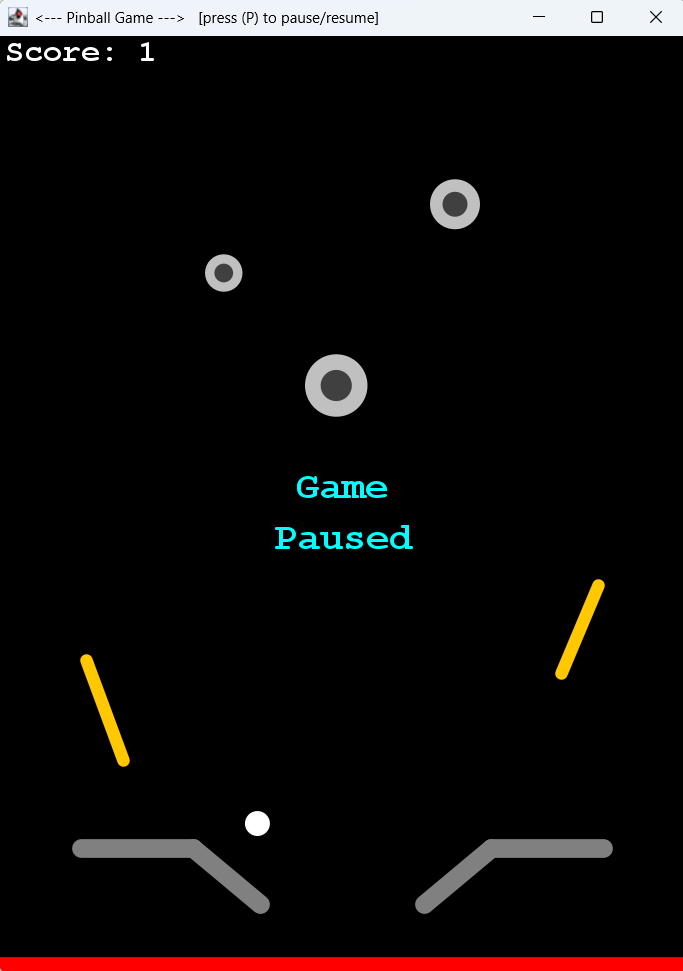
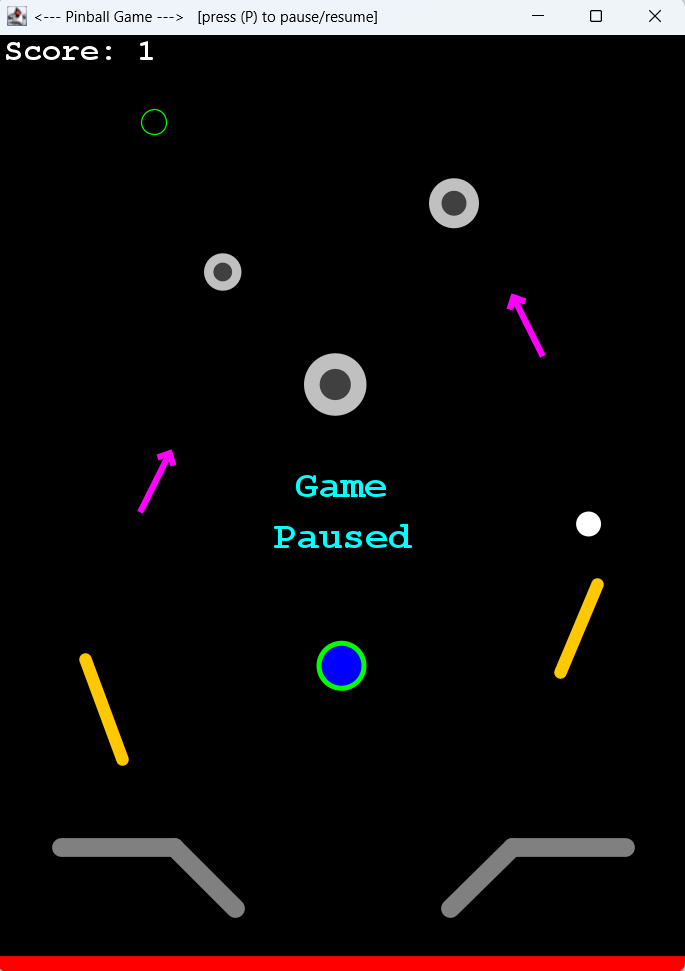
New objects to improve gameplay. Readme file update.

diff --git a/pinball/Arrow.java b/pinball/Arrow.java
@@ -1,0 +1,67 @@
+package pinball;
+
+import java.awt.BasicStroke;
+import java.awt.Color;
+import java.awt.Graphics2D;
+import java.awt.geom.Line2D;
+
+class Arrow {
+	
+	private double spX, spY; // start point coordinates
+	private double epX, epY; // end point coordinates
+	private Vector2D arrow;
+	
+	Arrow(double spX, double spY, double epX, double epY) {
+		
+		this.spX = spX;
+        this.spY = spY;
+        this.epX = epX;
+        this.epY = epY;
+        
+        // Vector from start point to end point. 
+    	this.arrow = new Vector2D(epX - spX, epY - spY);
+        
+	}
+	
+	void checkOverlap(Ball ball) {
+		
+    	// Vector from start point to ball center. 
+    	Vector2D sbVector = new Vector2D(ball.x - spX, ball.y - spY);
+    	
+    	// Factor from the projection of the ball center onto the arrow line. 
+    	double pf = sbVector.dot(arrow) / arrow.dot(arrow);
+    	
+    	// Adjustment of projection factor for cases where projected point does not lie on arrow itself. 
+        pf = Math.max(0, Math.min(1, pf));
+        
+        // Vector for overlapping test. 
+        Vector2D referenceVector = sbVector.subtract(arrow.scale(pf));
+        
+        // If there is overlapping, then redirect the ball. 
+        if (referenceVector.length() <= ball.radius) {
+        	ball.vx = arrow.x;
+        	ball.vy = arrow.y;
+        }
+		
+	}
+	
+	void draw(Graphics2D g2) {
+		
+		g2.setStroke(new BasicStroke(5, BasicStroke.CAP_SQUARE, BasicStroke.JOIN_MITER));
+		
+		g2.setColor(Color.MAGENTA);
+		
+		// Arrow body
+		g2.draw(new Line2D.Double(spX, spY, epX, epY));
+		
+		// preparations
+		Vector2D headSide = (new Vector2D(arrow.y, -arrow.x)).normalize().scale(5);
+		Vector2D headFront = (new Vector2D(epX, epY)).add(arrow.normalize().scale(5));
+		
+		// Arrow head
+		g2.draw(new Line2D.Double(epX + headSide.x, epY + headSide.y, headFront.x, headFront.y));
+		g2.draw(new Line2D.Double(headFront.x, headFront.y, epX - headSide.x, epY - headSide.y));
+		
+	}
+	
+}

diff --git a/pinball/GamePanel.java b/pinball/GamePanel.java
@@ -31,6 +31,9 @@ class GamePanel extends JPanel implements Runnable{
     private double startY = HEIGHT / 6;
     private double ballRadius = 10;
     private ArrayList<Bumper> bumpers = new ArrayList<Bumper>();
+    private Arrow arrowRight;
+    private Arrow arrowLeft;
+    private Portal portal;
     private Slingshot slingLeft, slingRight;
     private Flipper flipperLeft, flipperRight;
     
@@ -50,6 +53,9 @@ class GamePanel extends JPanel implements Runnable{
         bumpers.add(new Bumper(270, 280, 25));
         bumpers.add(new Bumper(180, 190, 15));
         bumpers.add(new Bumper(365, 135, 20));
+        arrowRight = new Arrow(435, 255, 415, 215);
+        arrowLeft = new Arrow(115, 380, 135, 340);
+        portal = new Portal(275, 505, 125, 70, 20);
         slingLeft = new Slingshot(70, 500, 100, 580);
         slingRight = new Slingshot(450, 510, 480, 440);
         flipperLeft = new Flipper(210, 650, true);
@@ -130,6 +136,13 @@ class GamePanel extends JPanel implements Runnable{
 	        	if (b.checkCollision(ball)) score++; // Count collisions with bumpers. 
 	        }
 	        
+	        // Check if the ball touches the arrows. 
+	        arrowRight.checkOverlap(ball);
+	        arrowLeft.checkOverlap(ball);
+	        
+	        // Check if the ball entered the portal. 
+	        portal.checkOverlap(ball);
+	        
 	        slingLeft.checkCollision(ball);
 	        slingRight.checkCollision(ball);
 	        
@@ -169,6 +182,11 @@ class GamePanel extends JPanel implements Runnable{
 		  for (Bumper b : bumpers) {
 	          b.draw(g2);
 	      }
+		  
+		  arrowRight.draw(g2);
+		  arrowLeft.draw(g2);
+		  
+		  portal.draw(g2);
 		  
 		  slingLeft.draw(g2);
 		  slingRight.draw(g2);

diff --git a/pinball/Portal.java b/pinball/Portal.java
@@ -1,0 +1,54 @@
+package pinball;
+
+import java.awt.BasicStroke;
+import java.awt.Color;
+import java.awt.Graphics2D;
+
+class Portal {
+	
+	private double entryX, entryY; // entry coordinates
+	private double exitX, exitY; // exit coordinates
+	private double radius;
+	
+    Portal(double entryX, double entryY, double exitX, double exitY, double radius) {
+    	this.entryX = entryX;
+        this.entryY = entryY;
+        this.exitX = exitX;
+        this.exitY = exitY;
+        this.radius = radius;
+    }
+    
+    void checkOverlap(Ball ball) {
+    	
+    	// Vector from entry center to ball center. 
+    	Vector2D centersVector = new Vector2D(ball.x - entryX, ball.y - entryY);
+    	
+    	// If there is overlapping, then transport the ball to the exit center. 
+    	if (centersVector.length() < radius) {
+    		ball.x = exitX;
+    		ball.y = exitY;
+		}
+    	
+    }
+    
+    void draw(Graphics2D g2) {
+    	
+    	// Exit
+    	
+    	g2.setStroke(new BasicStroke(1));
+    	
+    	g2.setColor(Color.GREEN);
+    	
+    	g2.drawOval((int) exitX - 10, (int) exitY - 10, 20, 20);
+    	
+    	// Entry
+    	
+    	g2.fillOval((int) (entryX - radius), (int) (entryY - radius), (int) radius * 2, (int) radius * 2);
+    	
+    	g2.setColor(Color.BLUE);
+    	
+    	g2.fillOval((int) (entryX - 0.8 * radius), (int) (entryY - 0.8 * radius), (int) (radius * 1.6), (int) (radius * 1.6));
+    	
+    }
+    
+}

diff --git a/README.md b/README.md
@@ -1,14 +1,17 @@
 # 2d-pinball-game
 
+A minimal 2D pinball game built in Java. 
+
 <img src="pinball_gp.png" width="400"/>
 
 ### Overview
-This is a minimal 2D pinball game built in Java. 
+Use the flippers to hit the ball. \
+The game ends when the ball falls below the bottom line. 
 
 ### Project Structure
 * GameFrame.java: Sets up window size, close operation and adds the game panel. 
 * GamePanel.java: Contains input listeners, game loop, paint component. 
-* Ball.java/Bumper.java/Slingshot.java/Flipper.java: Classes for pinball objects (containing methods for movement, collision handling, rendering). 
+* Ball.java/Bumper.java/Arrow.java/Portal.java/Slingshot.java/Flipper.java: Classes for pinball objects (containing methods for movement, collision handling, rendering). 
 * Vector2D.java: Class for 2D vector operations. 
 
 ### How to Run
@@ -31,6 +34,7 @@ The pinball window will open automatically.
 * Score on the top‐left corner. 
 * Pause/resume functionality with visual overlay. 
 * Game over state with option to restart. 
+* AND MORE! 
 
 ### Scoring & Game Over
 Each bumper hit awards 1 point. \
